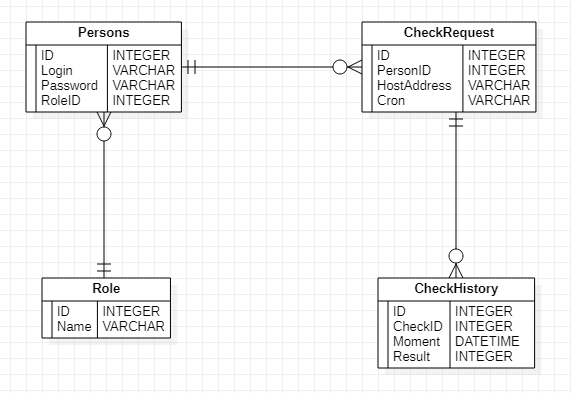
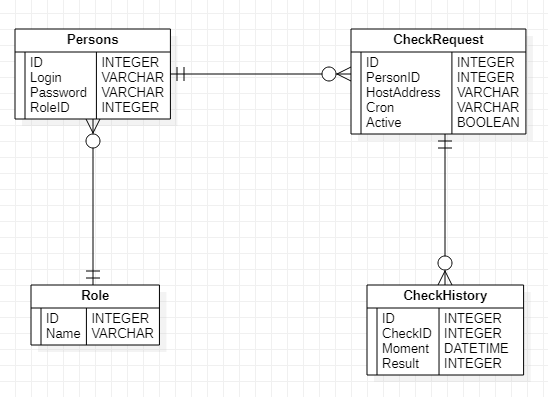
Modified Create CR to not include PersonID
Minor fix in Layout
Redo ERD
Added "Active" to CheckRequest

Closes #8

Closes #11

Changed region(s): [[0.0, 0.0305, 0.9617, 0.9466]]

diff --git a/RemoteChecker/Controllers/CheckRequestsController.cs b/RemoteChecker/Controllers/CheckRequestsController.cs
@@ -67,7 +67,6 @@ namespace RemoteChecker.Controllers
         // GET: CheckRequests/Create
         public IActionResult Create()
         {
-            ViewData["PersonID"] = new SelectList(_context.Persons, "ID", "ID");
             return View();
         }
 
@@ -78,13 +77,17 @@ namespace RemoteChecker.Controllers
         [ValidateAntiForgeryToken]
         public async Task<IActionResult> Create([Bind("ID,HostAddress,Cron,PersonID")] CheckRequest checkRequest)
         {
+
+            string login = User.Identity.Name;
+            int? id = (from r in _context.Persons where r.Login == login select r).FirstOrDefault()?.ID;
+            checkRequest.PersonID = (int)id;
+
             if (ModelState.IsValid)
             {
                 _context.Add(checkRequest);
                 await _context.SaveChangesAsync();
                 return RedirectToAction(nameof(Index));
             }
-            ViewData["PersonID"] = new SelectList(_context.Persons, "ID", "ID", checkRequest.PersonID);
             return View(checkRequest);
         }
 

diff --git a/RemoteChecker/Controllers/HomeController.cs b/RemoteChecker/Controllers/HomeController.cs
@@ -38,7 +38,7 @@ namespace RemoteChecker.Controllers
                 case 1:
                     return Redirect("Person");
                 case 2:
-                    return View(p);
+                    return Redirect("CheckRequests");
                 default:
                     return Redirect("Error");
             }

diff --git a/RemoteChecker/Models/CheckRequest.cs b/RemoteChecker/Models/CheckRequest.cs
@@ -14,6 +14,7 @@ namespace RemoteChecker.Models
         public int ID { get; set; }
         public string HostAddress { get; set; }
         public string Cron { get; set; }
+        public bool Active { get; set; }
 
         public int PersonID { get; set; }
         public Person Person { get; set; }
